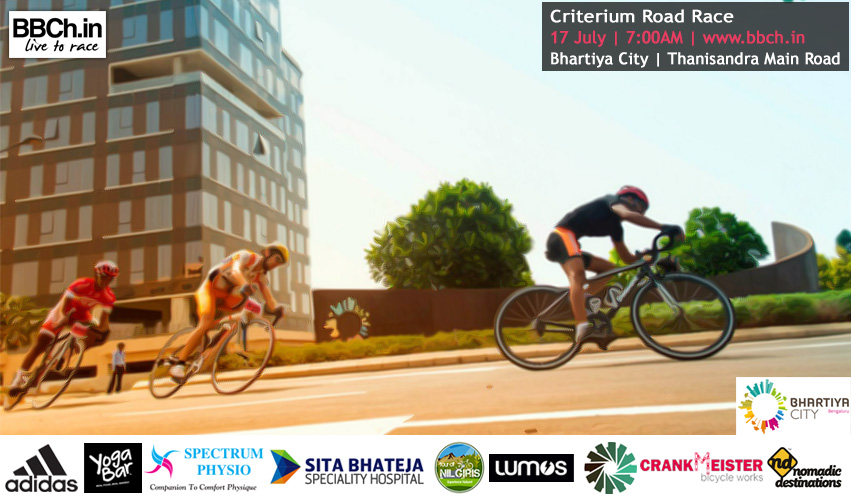
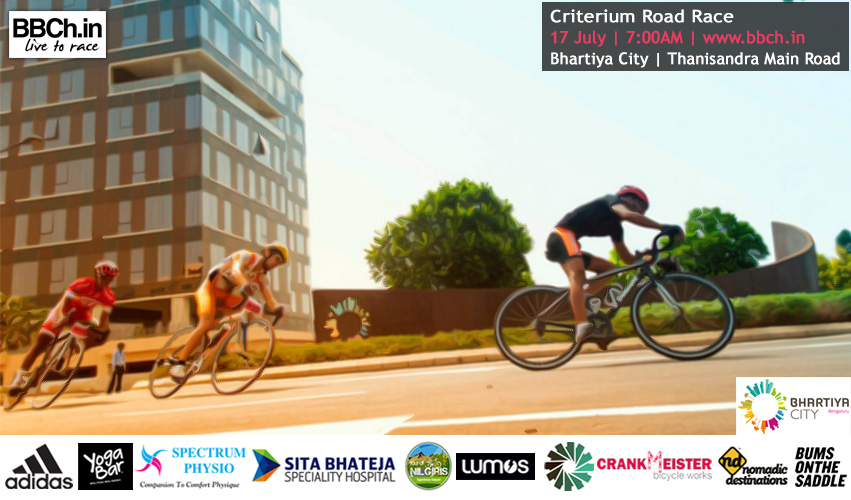
BOTS Add
Add new files and images

Changed region(s): [[0.0, 0.87, 1.0, 0.99]]

diff --git a/BBCh16Race04.htm b/BBCh16Race04.htm
@@ -224,7 +224,7 @@
                         be produced at the time of bib collection<br />
                         Under-18 category is common for both boys and girls who are below the age of 18.<br />
                 </p>
-                <br />
+                <!--<br />
                 <hr />
                 <br />
 
@@ -232,7 +232,7 @@
                     <iframe src="https://in.explara.com/widget-new/bbch16-race04" frameborder="0" style="width: 100%" height="900"></iframe>
                  </div>
                  <br />
-                <hr />
+                <hr />-->
                 <br />
                 
                  <p style="line-height: 150%">
@@ -488,6 +488,26 @@
                     </tr>
                 </table>
 
+                <br />
+                 <hr />
+                 <br />
+                 <div style="width: 700px; float: left">
+                    <a name="BBCh16_04_100KmResult"></a>
+                    <h2>
+                        BBCh16 Race #04 - 50km & 100km Road Race Result</h2>
+                </div>
+                <div class="clear">
+                </div>
+                <br />
+                 <br />
+                <div align="center">
+                    
+                    <div align="center">
+                        <iframe src="https://docs.google.com/spreadsheets/d/1mTngKKh2NehgK6mEMMGjIpKPCWNZRF1fIqErQaqrVFQ/pubhtml"
+                        width="800px" height="600px"></iframe>
+                    </div>
+                </div>
+                <br /><br /><br />
 
                 <br />
                 <div class="clear">

diff --git a/BBCh16Race06.htm b/BBCh16Race06.htm
@@ -190,7 +190,7 @@
                 </div>
                 <div style="width: 50%; float: left">
                     <span class="CaptionText2">Awesome Sponsors & Partners</span>
-                    <img alt="Sponsor Banner" src="Images/BBCh16_Race03_SP_Banner.gif" style="box-shadow: 0px 0px 10px #888888" />
+                    <img alt="Sponsor Banner" src="Images/BBCh16_Race06_SP_Road_Banner.gif" style="box-shadow: 0px 0px 10px #888888" />
                 </div>
                  <div class="clear">
                 </div>
@@ -278,11 +278,11 @@
                     </a>
                     <br /><br />
 
-                    <span class="CaptionText">YouTube video of the course : </span>
+                    <!--<span class="CaptionText">YouTube video of the course : </span>
                     <a href="https://www.youtube.com/watch?v=guzxCz7vMRU" target="_blank">
                             https://www.youtube.com/watch?v=guzxCz7vMRU
                     </a>
-                    <br /><br />
+                    <br /><br />-->
 
                     <span class="CaptionText">PRE-RACE DETAILS</span><br />
                     The race will start at 7:00AM. Make sure you pre-register online, so you just 

diff --git a/Sponsors.htm b/Sponsors.htm
@@ -198,10 +198,17 @@
                             </div>
                         </a>
                         <br />
-                        <a href="http://veloscope.in/" target="_blank">
+                        <a href="#" target="_blank">
                             <div>
                             <h1>ADVENTURE PARTNER</h1>
                             <img alt="Nomadic Destination" src="Images/SponsorND.jpg" style="border: 0" />
+                            </div>
+                        </a>
+                        <br />
+                        <a href="http://www.bumsonthesaddle.com/" target="_blank">
+                            <div>
+                            <h1>START LINE SUPPORT PARTNER</h1>
+                            <img alt="BOTS" src="Images/SponsorBOTS.jpg" style="border: 0" />
                             </div>
                         </a>
                         <br />

diff --git a/BBCh16Race05.htm b/BBCh16Race05.htm
@@ -234,14 +234,14 @@
                         be produced at the time of bib collection<br />
                         Under-18 category is common for both boys and girls who are below the age of 18.<br />
                 </p>
-                <br />
+                <!--<br />
 
                 <br />
                 <div>
                     <iframe src="https://in.explara.com/widget-new/bbch16-race05" frameborder="0" style="width: 100%" height="900"></iframe>                    
                  </div>
                  <br />
-                <hr />
+                <hr />-->
                 <br />
 
                     <p>

diff --git a/index.html b/index.html
@@ -575,6 +575,9 @@
                 <a href="Sponsors.htm">
                     <img class="left" alt="Nomadic Destination" src="Images/SponsorND.jpg" style="border: 0; height: 100px" />
                 </a>
+                <a href="Sponsors.htm">
+                    <img class="left" alt="BOTS" src="Images/SponsorBOTS.jpg" style="border: 0; height: 100px" />
+                </a>
                 <!--<a href="Sponsors.htm">
                     <img class="left" alt="Vyoma" src="Images/SponsorVyoma.jpg" style="border: 0" />
                 </a>-->

diff --git a/BBCh16Race07.htm b/BBCh16Race07.htm
@@ -196,7 +196,7 @@
                 </div>
                 <div style="width: 50%; float: left">
                     <span class="CaptionText2">Awesome Sponsors & Partners</span>
-                    <img alt="Sponsor Banner" src="Images/BBCh16_Race03_SP_Banner.gif" style="box-shadow: 0px 0px 10px #888888" />
+                    <img alt="Sponsor Banner" src="Images/BBCh16_Race06_SP_MTB_Banner.gif" style="box-shadow: 0px 0px 10px #888888" />
                 </div>
                  <div class="clear">
                 </div>
